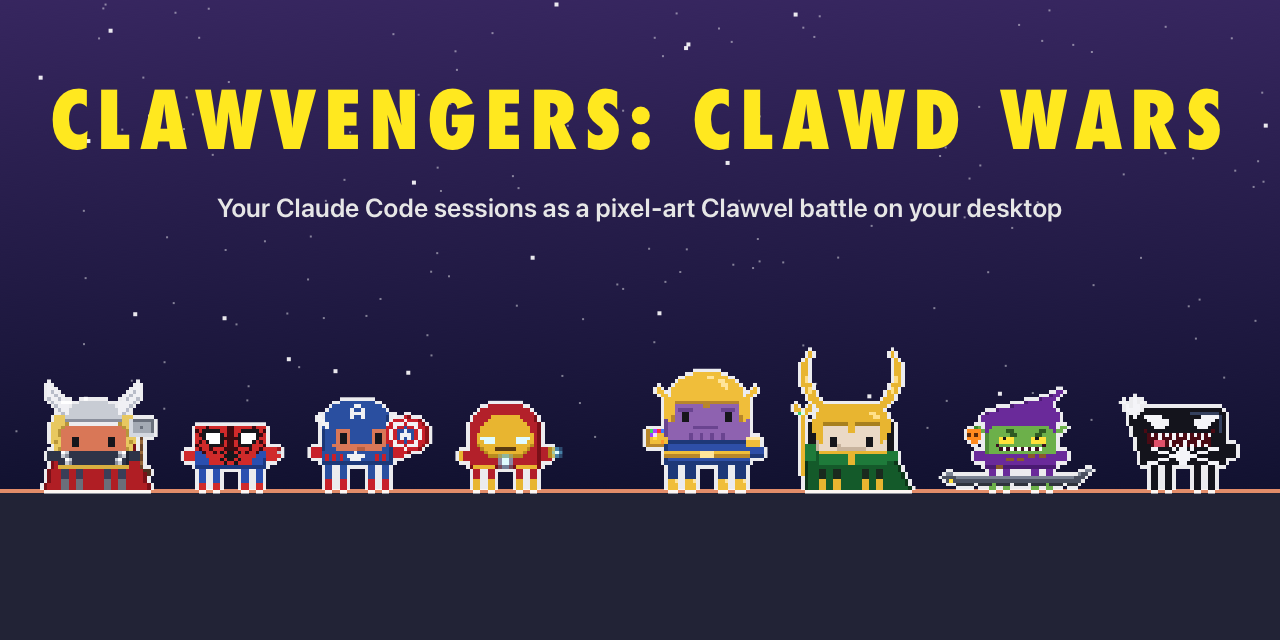
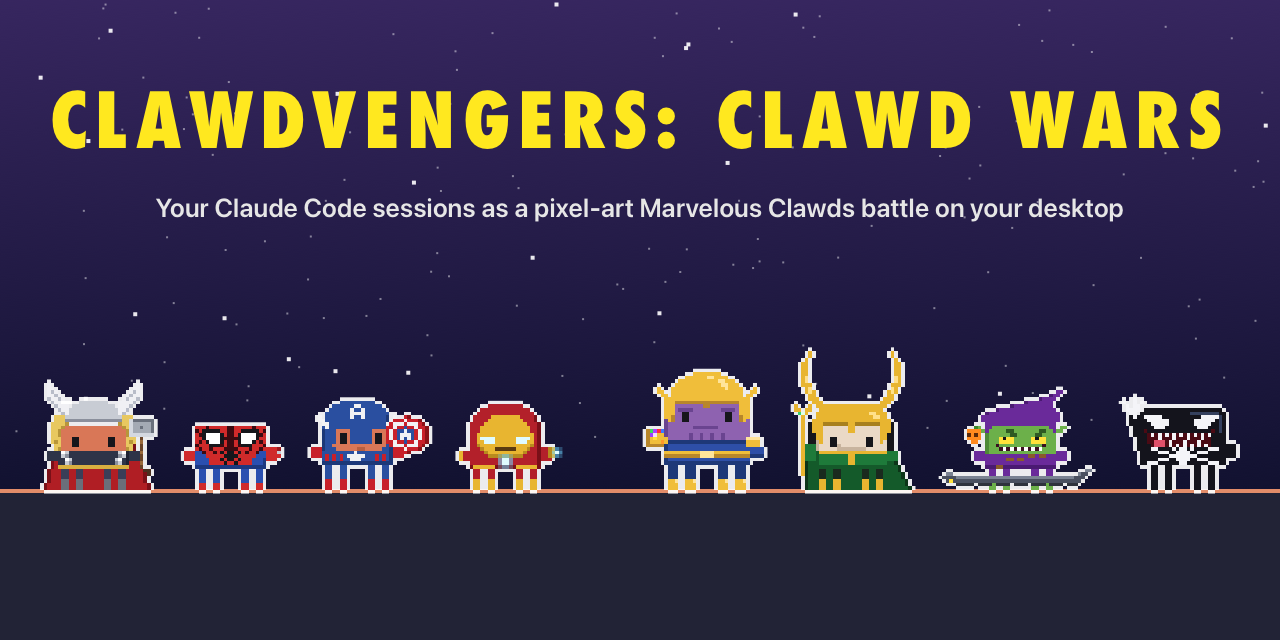
docs!: this page is Clawdvengers: Clawd Wars, in Marvelous Clawds
The team is the Clawdvengers and the universe Marvelous Clawds (with
Captain Marvelous and Ms. Marvelous), since everyone is Clawd but few have
claws. The repo is now clawdvengers-clawd-wars and so is the cask. The
roster, place sheet, social preview and window shot are re-rendered, and
the window shot is now window-clawdvengers-tower.png.

Changed region(s): [[0.0625, 0.125, 0.9375, 0.25], [0.125, 0.3125, 0.875, 0.3438]]

diff --git a/README.md b/README.md
@@ -1,11 +1,11 @@
 <p align="center">
-  <img src="docs/app-icon.png" width="180" alt="Clawvengers: Clawd Wars icon: Captain Ameriklaw holding up his shield against a blast from Thanoz">
+  <img src="docs/app-icon.png" width="180" alt="Clawdvengers: Clawd Wars icon: Captain Ameriklaw holding up his shield against a blast from Thanoz">
 </p>
 
-<h1 align="center">Clawvengers: Clawd Wars</h1>
+<h1 align="center">Clawdvengers: Clawd Wars</h1>
 
 <p align="center">
-  <b>Your Claude Code, Codex, Qwen Code, Gemini CLI and GitHub Copilot CLI sessions, as a pixel-art Clawvel battle on your desktop.</b><br>
+  <b>Your Claude Code, Codex, Qwen Code, Gemini CLI and GitHub Copilot CLI sessions, as a pixel-art Marvelous Clawds battle on your desktop.</b><br>
   Every session is a hero or a villain, every subagent joins in, and they fight while they work.
 </p>
 
@@ -25,7 +25,7 @@ https://github.com/user-attachments/assets/ed78aa3c-79ec-4827-a56b-b6590f905686
   <img src="docs/desktop.png" alt="Sessions and agents fighting along the bottom of the screen: Thanoz blasting Iron Clawd in the air, Spider-Clawd webbing the Green Gobbler, Clawverine and Sabreclaw, Red Skulk firing at Captain Ameriklaw's shield">
 </p>
 
-> **Clawvengers: Clawd Wars is now part of [Clawd Clash](https://github.com/rodclemen/clawd-clash)**, one app with three universes: **Clawvel**, **Star Claws** and **Detective Claws**. This page shows off the Clawvel one. Everything else (all three universes, setup, uninstalling, the source code) lives in the [Clawd Clash repo](https://github.com/rodclemen/clawd-clash).
+> **Clawdvengers: Clawd Wars is now part of [Clawd Clash](https://github.com/rodclemen/clawd-clash)**, one app with three universes: **Marvelous Clawds**, **Star Clawds** and **Detective Clawds**. This page shows off the Marvelous Clawds one. Everything else (all three universes, setup, uninstalling, the source code) lives in the [Clawd Clash repo](https://github.com/rodclemen/clawd-clash).
 
 ---
 
@@ -43,7 +43,7 @@ https://github.com/user-attachments/assets/ed78aa3c-79ec-4827-a56b-b6590f905686
 
 You run Claude Code in three terminals. One is thinking, one is waiting for your permission, one finished ten minutes ago and you didn't notice. You alt-tab around to find out.
 
-**Clawvengers: Clawd Wars tells you at a glance, without switching windows.**
+**Clawdvengers: Clawd Wars tells you at a glance, without switching windows.**
 
 - 🛡 **Working?** Your Claude fights: Captain Ameriklaw swings his shield, Iron Clawd fires repulsors, Doctor Stranger casts.
 - 💭 **Thinking?** A thought bubble.
@@ -55,22 +55,22 @@ You run Claude Code in three terminals. One is thinking, one is waiting for your
 
 ## Claude vs Codex vs everyone
 
-**Claude Code plays the heroes.** Run it alongside **OpenAI Codex**, **Qwen Code**, **Gemini CLI** or **GitHub Copilot CLI** and Claude's sessions and agents are Clawvengers, X-Claws and friends, while the other AI's are Thanoz, Doctor Gloom, Magnetto and the rest. With only Claude running, anyone can turn up, so heroes and villains mix.
+**Claude Code plays the heroes.** Run it alongside **OpenAI Codex**, **Qwen Code**, **Gemini CLI** or **GitHub Copilot CLI** and Claude's sessions and agents are Clawdvengers, X-Claws and friends, while the other AI's are Thanoz, Doctor Gloom, Magnetto and the rest. With only Claude running, anyone can turn up, so heroes and villains mix.
 
 You can tell the AIs apart at a glance: Claude's characters keep the white outline; Codex gets cyan, Qwen Code lavender, Gemini CLI gold and Copilot CLI mint. Claude Code sessions in the **Claude desktop app** have a coral outline.
 
 ## The cast
 
-**193 characters and 43 places**, every character Clawd (Claude Code's little pixel mascot) in costume, all of it drawn in code: the Clawvengers, the X-Claws, the Guardians of the Clawlaxy, the Fanclawstic Four and the street-level heroes against Thanoz, Lokee, Ultraton, Doctor Gloom, Magnetto, Spider-Clawd's rogues, Hydrax and more. Nearly every character has a signature move it does when idle.
+**193 characters and 43 places**, every character Clawd (Claude Code's little pixel mascot) in costume, all of it drawn in code: the Clawdvengers, the X-Claws, the Guardians of the Clawlaxy, the Fanclawstic Four and the street-level heroes against Thanoz, Lokee, Ultraton, Doctor Gloom, Magnetto, Spider-Clawd's rogues, Hydrax and more. Nearly every character has a signature move it does when idle.
 
 <p align="center">
-  <img src="docs/roster.png" alt="The whole Clawvel cast, heroes and villains" width="760">
+  <img src="docs/roster.png" alt="The whole Marvelous Clawds cast, heroes and villains" width="760">
 </p>
 
 <details>
 <summary><b>105 heroes</b></summary>
 
-Iron Clawd, Captain Ameriklaw, Thorr, The Bulk, Black Window, Hawk-I, Spider-Clawd, Black Panthah, Doctor Stranger, Scarlet Glitch, Vizion, Captain Clawvel, Aunt-Man, The Waspette, Falconer, Winter Trooper, Star-Laird, Gamura, Drex the Destroyer, Racket, Grout, Mantys, Nick Furie, She-Bulk, Clawverine, Cyclopz, Stormy, Jeanne Grae, Professor Why, The Beest, Nightclawler, Gamblit, Rouge, Ice Dude, Colossos, Human Blowtorch, The Thingamajig, Mr. Fanclawstic, Invisibelle, Silver Server, Daredemon, Deadpond, Shang-Chee, Ms. Clawvel, Moon Night, Ghost Biker, War Machina, Wikkan, Speedy, Quicksliver, Kat Bishopp, Yelena Belovna, Okoya, Shuree, Valkyria, Kork, Wonk, Herakles, Sentree, Kosmo the Space Dog, Kraglen, Adam Warlocke, Novah, Kitty Pride, Jubilette, Psyloque, Bisshop, Kable, Havoc, Emma Frosty, Bansheen, Angell, Dominoe, Y-23, Myles Moralez, Spider-Gwyn, Spider-Lady, Black Kat, Luke Kage, Iron Fyst, Jessie Jonez, The Punnisher, Elecktra, Blayde, Black Nite, Monika Rambeaux, Kleah, Doctor Hoodoo, Harold the Duck, Squirrel Gal, Geoff the Land Shark, Frogg of Thunder, Lockjaws, Furbush Man, Moebius, Sylvi, Kid Lokee, Alligator Lokee, Hunter C-16, Red Guardsman, Ka-Zarr, Rescuer, Zabo, Morrie and Dumb-E. Geoff the Land Shark, Zabo, Morrie and Dumb-E only ever show up as agents.
+Iron Clawd, Captain Ameriklaw, Thorr, The Bulk, Black Window, Hawk-I, Spider-Clawd, Black Panthah, Doctor Stranger, Scarlet Glitch, Vizion, Captain Marvelous, Aunt-Man, The Waspette, Falconer, Winter Trooper, Star-Laird, Gamura, Drex the Destroyer, Racket, Grout, Mantys, Nick Furie, She-Bulk, Clawverine, Cyclopz, Stormy, Jeanne Grae, Professor Why, The Beest, Nightclawler, Gamblit, Rouge, Ice Dude, Colossos, Human Blowtorch, The Thingamajig, Mr. Fanclawstic, Invisibelle, Silver Server, Daredemon, Deadpond, Shang-Chee, Ms. Marvelous, Moon Night, Ghost Biker, War Machina, Wikkan, Speedy, Quicksliver, Kat Bishopp, Yelena Belovna, Okoya, Shuree, Valkyria, Kork, Wonk, Herakles, Sentree, Kosmo the Space Dog, Kraglen, Adam Warlocke, Novah, Kitty Pride, Jubilette, Psyloque, Bisshop, Kable, Havoc, Emma Frosty, Bansheen, Angell, Dominoe, Y-23, Myles Moralez, Spider-Gwyn, Spider-Lady, Black Kat, Luke Kage, Iron Fyst, Jessie Jonez, The Punnisher, Elecktra, Blayde, Black Nite, Monika Rambeaux, Kleah, Doctor Hoodoo, Harold the Duck, Squirrel Gal, Geoff the Land Shark, Frogg of Thunder, Lockjaws, Furbush Man, Moebius, Sylvi, Kid Lokee, Alligator Lokee, Hunter C-16, Red Guardsman, Ka-Zarr, Rescuer, Zabo, Morrie and Dumb-E. Geoff the Land Shark, Zabo, Morrie and Dumb-E only ever show up as agents.
 
 </details>
 
@@ -92,11 +92,11 @@ Thanoz, Lokee, Ultraton, Red Skulk, Doctor Gloom, Hel, Ronnan the Accuser, Nebul
 | ranged vs ranged | | a proper shoot-out: they duck, shots collide mid-air, shields flash, shots ping off armour |
 | odd one out | | cheers the others on, with sparkles |
 
-Every shooter has its own shots: Iron Clawd's and Captain Clawvel's blasts, Cyclopz's and the Sentinals' beams, Spider-Clawd's webs, Hawk-I's arrows, the Human Blowtorch's and Fin Fang Fume's fire, Ice Dude's ice, Gamblit's charged cards, Bullseyes' knives, the Green Gobbler's pumpkin bombs. Magic streams come in each caster's colours: Doctor Stranger orange, Scarlet Glitch red, Lokee green, Thanoz purple, while Stormy, Elektro and Wikkan throw forked lightning.
+Every shooter has its own shots: Iron Clawd's and Captain Marvelous's blasts, Cyclopz's and the Sentinals' beams, Spider-Clawd's webs, Hawk-I's arrows, the Human Blowtorch's and Fin Fang Fume's fire, Ice Dude's ice, Gamblit's charged cards, Bullseyes' knives, the Green Gobbler's pumpkin bombs. Magic streams come in each caster's colours: Doctor Stranger orange, Scarlet Glitch red, Lokee green, Thanoz purple, while Stormy, Elektro and Wikkan throw forked lightning.
 
 **Arch-enemies find each other first**: whenever both are fighting, Captain Ameriklaw takes on Red Skulk, Thorr takes Lokee or Hel, Spider-Clawd the Green Gobbler or Venum, Clawverine Sabreclaw, Black Panthah Kilmongre, Doctor Stranger Dormamoo, The Bulk the Abominator, Daredemon the Kingping or Bullseyes, the Silver Server Galacticus, Aunt-Man Kangg the Conqueror, and more, wherever they are in the line.
 
-**They move like themselves**: Iron Clawd, Thorr, Captain Clawvel, Vizion, Stormy, the Silver Server and the other flyers take off when they cross the stage and land where they're going, and every so often take to the air where they stand; in a fight, the shooters and casters among them go up and keep firing from there. Doctor Stranger, Magnetto, MOODOK and Dormamoo hover; Spider-Clawd swings on a web line.
+**They move like themselves**: Iron Clawd, Thorr, Captain Marvelous, Vizion, Stormy, the Silver Server and the other flyers take off when they cross the stage and land where they're going, and every so often take to the air where they stand; in a fight, the shooters and casters among them go up and keep firing from there. Doctor Stranger, Magnetto, MOODOK and Dormamoo hover; Spider-Clawd swings on a web line.
 
 **Ships pick people up**: when Captain Ameriklaw, Black Window, Hawk-I, Nick Furie, The Bulk, Kat Bishopp or Yelena Belovna finish, the **Clawjet** lands for them; the Guardians of the Clawlaxy get the **Milano**.
 
@@ -105,13 +105,13 @@ Every shooter has its own shots: Iron Clawd's and Captain Clawvel's blasts, Cycl
 It opens in a window by default (switch to the desktop from the menu): the whole crew in a scene, with a card for every session: its project, what it's doing right now, your last prompt, its last reply, and its agents in a little tree. When no AI is running, the window steps aside, and it comes back when one starts.
 
 <p align="center">
-  <img src="docs/window-clawvengers-tower.png" alt="Window mode at Clawvengers Tower: Captain Ameriklaw with Iron Clawd and Thorr, Red Skulk on Codex, Lokee on Gemini CLI" width="760">
+  <img src="docs/window-clawdvengers-tower.png" alt="Window mode at Clawdvengers Tower: Captain Ameriklaw with Iron Clawd and Thorr, Red Skulk on Codex, Lokee on Gemini CLI" width="760">
 </p>
 
-The scene is set **where the first session's character belongs**: Clawvengers Tower for Iron Clawd, the Sanctum Sanctorum for Doctor Stranger, Wakandu for Black Panthah, Titan for Thanoz. 43 places, each with something moving: windows lighting up and the Clawjet crossing the skyline behind Clawvengers Tower, the rainbow bridge shimmering at Asgaard, the Sakkar crowd cheering, Nowhere's neon flickering, rain over Hell's Kitchen, Gloomveria in a lightning storm, the Chitari pouring out of the portal at the Battle of New York, Dormamoo's face looming in the Darker Dimension, pterodactyls over the Savage Lands, Galacticus devouring a planet past the Worldship's viewport, the Time Variation Agency's clock ticking, Miss Seconds and all, a hologram turning in Tony Stork's Workshop, cabs and pigeons in New York City, lanterns over Ta Loh.
+The scene is set **where the first session's character belongs**: Clawdvengers Tower for Iron Clawd, the Sanctum Sanctorum for Doctor Stranger, Wakandu for Black Panthah, Titan for Thanoz. 43 places, each with something moving: windows lighting up and the Clawjet crossing the skyline behind Clawdvengers Tower, the rainbow bridge shimmering at Asgaard, the Sakkar crowd cheering, Nowhere's neon flickering, rain over Hell's Kitchen, Gloomveria in a lightning storm, the Chitari pouring out of the portal at the Battle of New York, Dormamoo's face looming in the Darker Dimension, pterodactyls over the Savage Lands, Galacticus devouring a planet past the Worldship's viewport, the Time Variation Agency's clock ticking, Miss Seconds and all, a hologram turning in Tony Stork's Workshop, cabs and pigeons in New York City, lanterns over Ta Loh.
 
 <p align="center">
-  <img src="docs/locations.png" alt="All 43 Clawvel places" width="760">
+  <img src="docs/locations.png" alt="All 43 Marvelous Clawds places" width="760">
 </p>
 
 **Changing place is a comic-book moment.** Each move somewhere new gets a different comic-book transition: halftone dots printing in the new place, three panels slamming down, a speed-line zoom through a white flash, or an iris closing on a "MEANWHILE, IN WAKANDU…" caption box. The sound effect belongs to someone on screen: SNIKT! (Clawverine, Y-23) rips the old place open with three claw slashes, PHOOMF! (Nightclawler) is a puff of purple smoke, KRA-KA-BOOM! or THOOM! (Thorr) a storm-blue flash forking with lightning, FWIP! (any Spider-Clawd) a red web spinning out, BAROOM! (The Bulk, The Thingamajig) a green and orange blast throwing rubble, and with none of them about, the classic yellow and red KAPOW! starburst. With Deadpond on screen he often takes over: he climbs into the corner and peels the old place off the screen like a comic page, or surfs across on a giant chimichanga yelling CHIMICHANGAAAAA!, with captions of his own ("MEANWHILE, ON A SMALLER BUDGET…").
@@ -122,26 +122,26 @@ The scene is set **where the first session's character belongs**: Clawvengers To
 
 ## Get it
 
-Clawvengers: Clawd Wars is now the Clawvel universe of **[Clawd Clash](https://github.com/rodclemen/clawd-clash)**. It needs macOS 13+ (Apple Silicon or Intel) and at least one of Claude Code, Codex, Qwen Code, Gemini CLI or GitHub Copilot CLI.
+Clawdvengers: Clawd Wars is now the Marvelous Clawds universe of **[Clawd Clash](https://github.com/rodclemen/clawd-clash)**. It needs macOS 13+ (Apple Silicon or Intel) and at least one of Claude Code, Codex, Qwen Code, Gemini CLI or GitHub Copilot CLI.
 
 ```sh
-brew install --cask rodclemen/tap/clawvengers-clawd-wars
+brew install --cask rodclemen/tap/clawdvengers-clawd-wars
 ```
 
-That installs Clawd Clash, starting in Clawvel. `brew install --cask rodclemen/tap/clawd-clash` installs the same app, or download the zip from [Clawd Clash's releases](https://github.com/rodclemen/clawd-clash/releases), unzip it and drag **Clawd Clash** to Applications.
+That installs Clawd Clash, starting in Marvelous Clawds. `brew install --cask rodclemen/tap/clawd-clash` installs the same app, or download the zip from [Clawd Clash's releases](https://github.com/rodclemen/clawd-clash/releases), unzip it and drag **Clawd Clash** to Applications.
 
-Already have the old Clawvengers app? Clawd Clash takes over the AIs it had connected and starts in Clawvel, so the old app can go.
+Already have the old Clawdvengers app? Clawd Clash takes over the AIs it had connected and starts in Marvelous Clawds, so the old app can go.
 
 **Two more universes come with it**, one setting away (Settings… → Universe, or **Random** to switch on its own every so often):
 
-- **Star Claws**: laser swords, blasters and dark lightning, from the Mos Easy Cantina to the Battle of Froth. Its own page: [Clawd Wars](https://github.com/rodclemen/clawd-wars).
-- **Detective Claws**: fists, swords, heat vision, power rings, clawarangs and magic, from the Lookout to the Hall of Gloom. Its own page: [Clawstice League: Clawd Wars](https://github.com/rodclemen/clawstice-league-clawd-wars).
+- **Star Clawds**: laser swords, blasters and dark lightning, from the Mos Easy Cantina to the Battle of Froth. Its own page: [Clawd Wars](https://github.com/rodclemen/clawd-wars).
+- **Detective Clawds**: fists, swords, heat vision, power rings, clawarangs and magic, from the Lookout to the Hall of Gloom. Its own page: [Justice Clawds: Clawd Wars](https://github.com/rodclemen/justice-clawds-clawd-wars).
 
 Setup details, uninstalling and the source code are all in the [Clawd Clash README](https://github.com/rodclemen/clawd-clash#readme).
 
 ## What's new
 
-[CHANGELOG.md](CHANGELOG.md) lists what changed in the Clawvel universe, in plain words.
+[CHANGELOG.md](CHANGELOG.md) lists what changed in the Marvelous Clawds universe, in plain words.
 
 ## License
 

diff --git a/CHANGELOG.md b/CHANGELOG.md
@@ -1,11 +1,11 @@
-# What's new in Clawvengers: Clawd Wars
+# What's new in Clawdvengers: Clawd Wars
 
-The changes you'd notice in the Clawvel universe, newest first. Clawvengers: Clawd Wars now lives on as part of [Clawd Clash](https://github.com/rodclemen/clawd-clash); its [changelog](https://github.com/rodclemen/clawd-clash/blob/main/CHANGELOG.md) has the full story, every detail included.
+The changes you'd notice in the Marvelous Clawds universe, newest first. Clawdvengers: Clawd Wars now lives on as part of [Clawd Clash](https://github.com/rodclemen/clawd-clash); its [changelog](https://github.com/rodclemen/clawd-clash/blob/main/CHANGELOG.md) has the full story, every detail included.
 
 ## 3.0.0: joins Clawd Clash
 
-- **One app, three universes.** Clawvengers: Clawd Wars is now the Clawvel universe of Clawd Clash, next to Star Claws and Detective Claws. Pick one in Settings; a scene never mixes them. Switching recasts everyone on screen and moves the scene to one of the new universe's places.
-- **Parody names.** Everyone and everywhere in Clawvel has a new name: Iron Clawd, Captain Ameriklaw, Thorr, Spider-Clawd, Clawverine and Thanoz, Clawvengers Tower, Wakandu and Asgaard, the Clawjet, and the app itself is now Clawvengers: Clawd Wars.
+- **One app, three universes.** Clawdvengers: Clawd Wars is now the Marvelous Clawds universe of Clawd Clash, next to Star Clawds and Detective Clawds. Pick one in Settings; a scene never mixes them. Switching recasts everyone on screen and moves the scene to one of the new universe's places.
+- **Parody names.** Everyone and everywhere in Marvelous Clawds has a new name: Iron Clawd, Captain Ameriklaw, Thorr, Spider-Clawd, Clawverine and Thanoz, Clawdvengers Tower, Wakandu and Asgaard, the Clawjet, and the app itself is now Clawdvengers: Clawd Wars.
 - **Comic-book transitions.** Moving to a new place, in the window and the screen saver, now happens like a turn of the page: halftone dots, panels slamming down, a speed-line zoom, or a "MEANWHILE, IN…" caption. The sound effect belongs to someone on screen: SNIKT! claw slashes for Clawverine, a PHOOMF! of smoke for Nightclawler, KRA-KA-BOOM! lightning for Thorr, a FWIP! of web for Spider-Clawd, a BAROOM! for The Bulk, or a classic KAPOW!. Deadpond sometimes takes over, peeling the page off the screen or surfing past on a chimichanga.
 - **Random universe.** Settings can switch universe on its own every 1 to 60 minutes. In the window, the whole thing changes over with the new universe's transition while the new crew walks in underneath.
 - **A Settings window.** Every option in one place (⌘,): the universe, the window and the desktop, which AIs are connected, the screen saver. The menu is shorter for it.
@@ -13,19 +13,19 @@ The changes you'd notice in the Clawvel universe, newest first. Clawvengers: Cla
 - **Keep Characters on Top**, or not: the desktop crew can now live on the desktop itself, behind your windows.
 - **The screen saver picks its own universe** in its Options, Random included, and no longer goes missing from System Settings' list after an update.
 - **Powers that look right.** Only the real lightning throwers (Stormy, Elektro, Wikkan) still crackle with it; Thanoz, Doctor Gloom, Dormamoo, Mefisto and the other casters fire a steady stream in their own colour, and Emma Frosty turns to diamond and fights hand to hand.
-- **Upgrading takes care of itself.** Clawd Clash takes over the AIs the old app had connected, quits it and starts in Clawvel. The Homebrew cask `clawvengers-clawd-wars` installs Clawd Clash, starting in Clawvel.
-- **A new icon**: a comic cover in three panels, one per universe, with Spider-Clawd hanging from his web in the Clawvel one.
+- **Upgrading takes care of itself.** Clawd Clash takes over the AIs the old app had connected, quits it and starts in Marvelous Clawds. The Homebrew cask `clawdvengers-clawd-wars` installs Clawd Clash, starting in Marvelous Clawds.
+- **A new icon**: a comic cover in three panels, one per universe, with Spider-Clawd hanging from his web in the Marvelous Clawds one.
 
-## 0.1.0: the first Clawvel release
+## 0.1.0: the first Marvelous Clawds release
 
-- **A Clawvel battle on your desktop.** Your Claude Code, Codex, Qwen Code, Gemini CLI and Copilot CLI sessions as pixel-art heroes and villains who fight while they work, in a window or along the bottom of your screen.
+- **A Marvelous Clawds battle on your desktop.** Your Claude Code, Codex, Qwen Code, Gemini CLI and Copilot CLI sessions as pixel-art heroes and villains who fight while they work, in a window or along the bottom of your screen.
 - **193 characters**, 105 heroes and 88 villains, every one Clawd in costume and nearly every one with a signature move: Iron Clawd flips his faceplate up, Thanoz snaps, Lokee turns into a snake, Deadpond eats a chimichanga.
 - **Claude Code plays the heroes** whenever another AI is running; with Claude alone, anyone can turn up.
 - **Everyone fights their own way**: shields knock shots aside, every shooter has its own shots, and magic comes in each caster's colours.
 - **Arch-enemies face off first**: Captain Ameriklaw and Red Skulk, Thorr and Lokee, Spider-Clawd and the Green Gobbler, Clawverine and Sabreclaw, and more.
 - **Flyers fly.** They take off and land as they cross the stage, now and then lift off for a while, and keep shooting from the air in a fight. Hoverers float, and Spider-Clawd swings on a web line.
 - **The Clawjet and the Milano** land to pick up their crews when they're done.
-- **43 places**, from Clawvengers Tower to Ta Loh, each with something moving, and the scene is set where the first session's character belongs.
+- **43 places**, from Clawdvengers Tower to Ta Loh, each with something moving, and the scene is set where the first session's character belongs.
 - **A screen saver** with the place full screen, the crew, cards, name tags and a clock.
 - **"Needs you" waits as long as it takes**: a session waiting for your answer keeps its red `!` until you answer, and stands down if you press Esc.
 - **A trailer** with its own soundtrack, at the top of the README.
